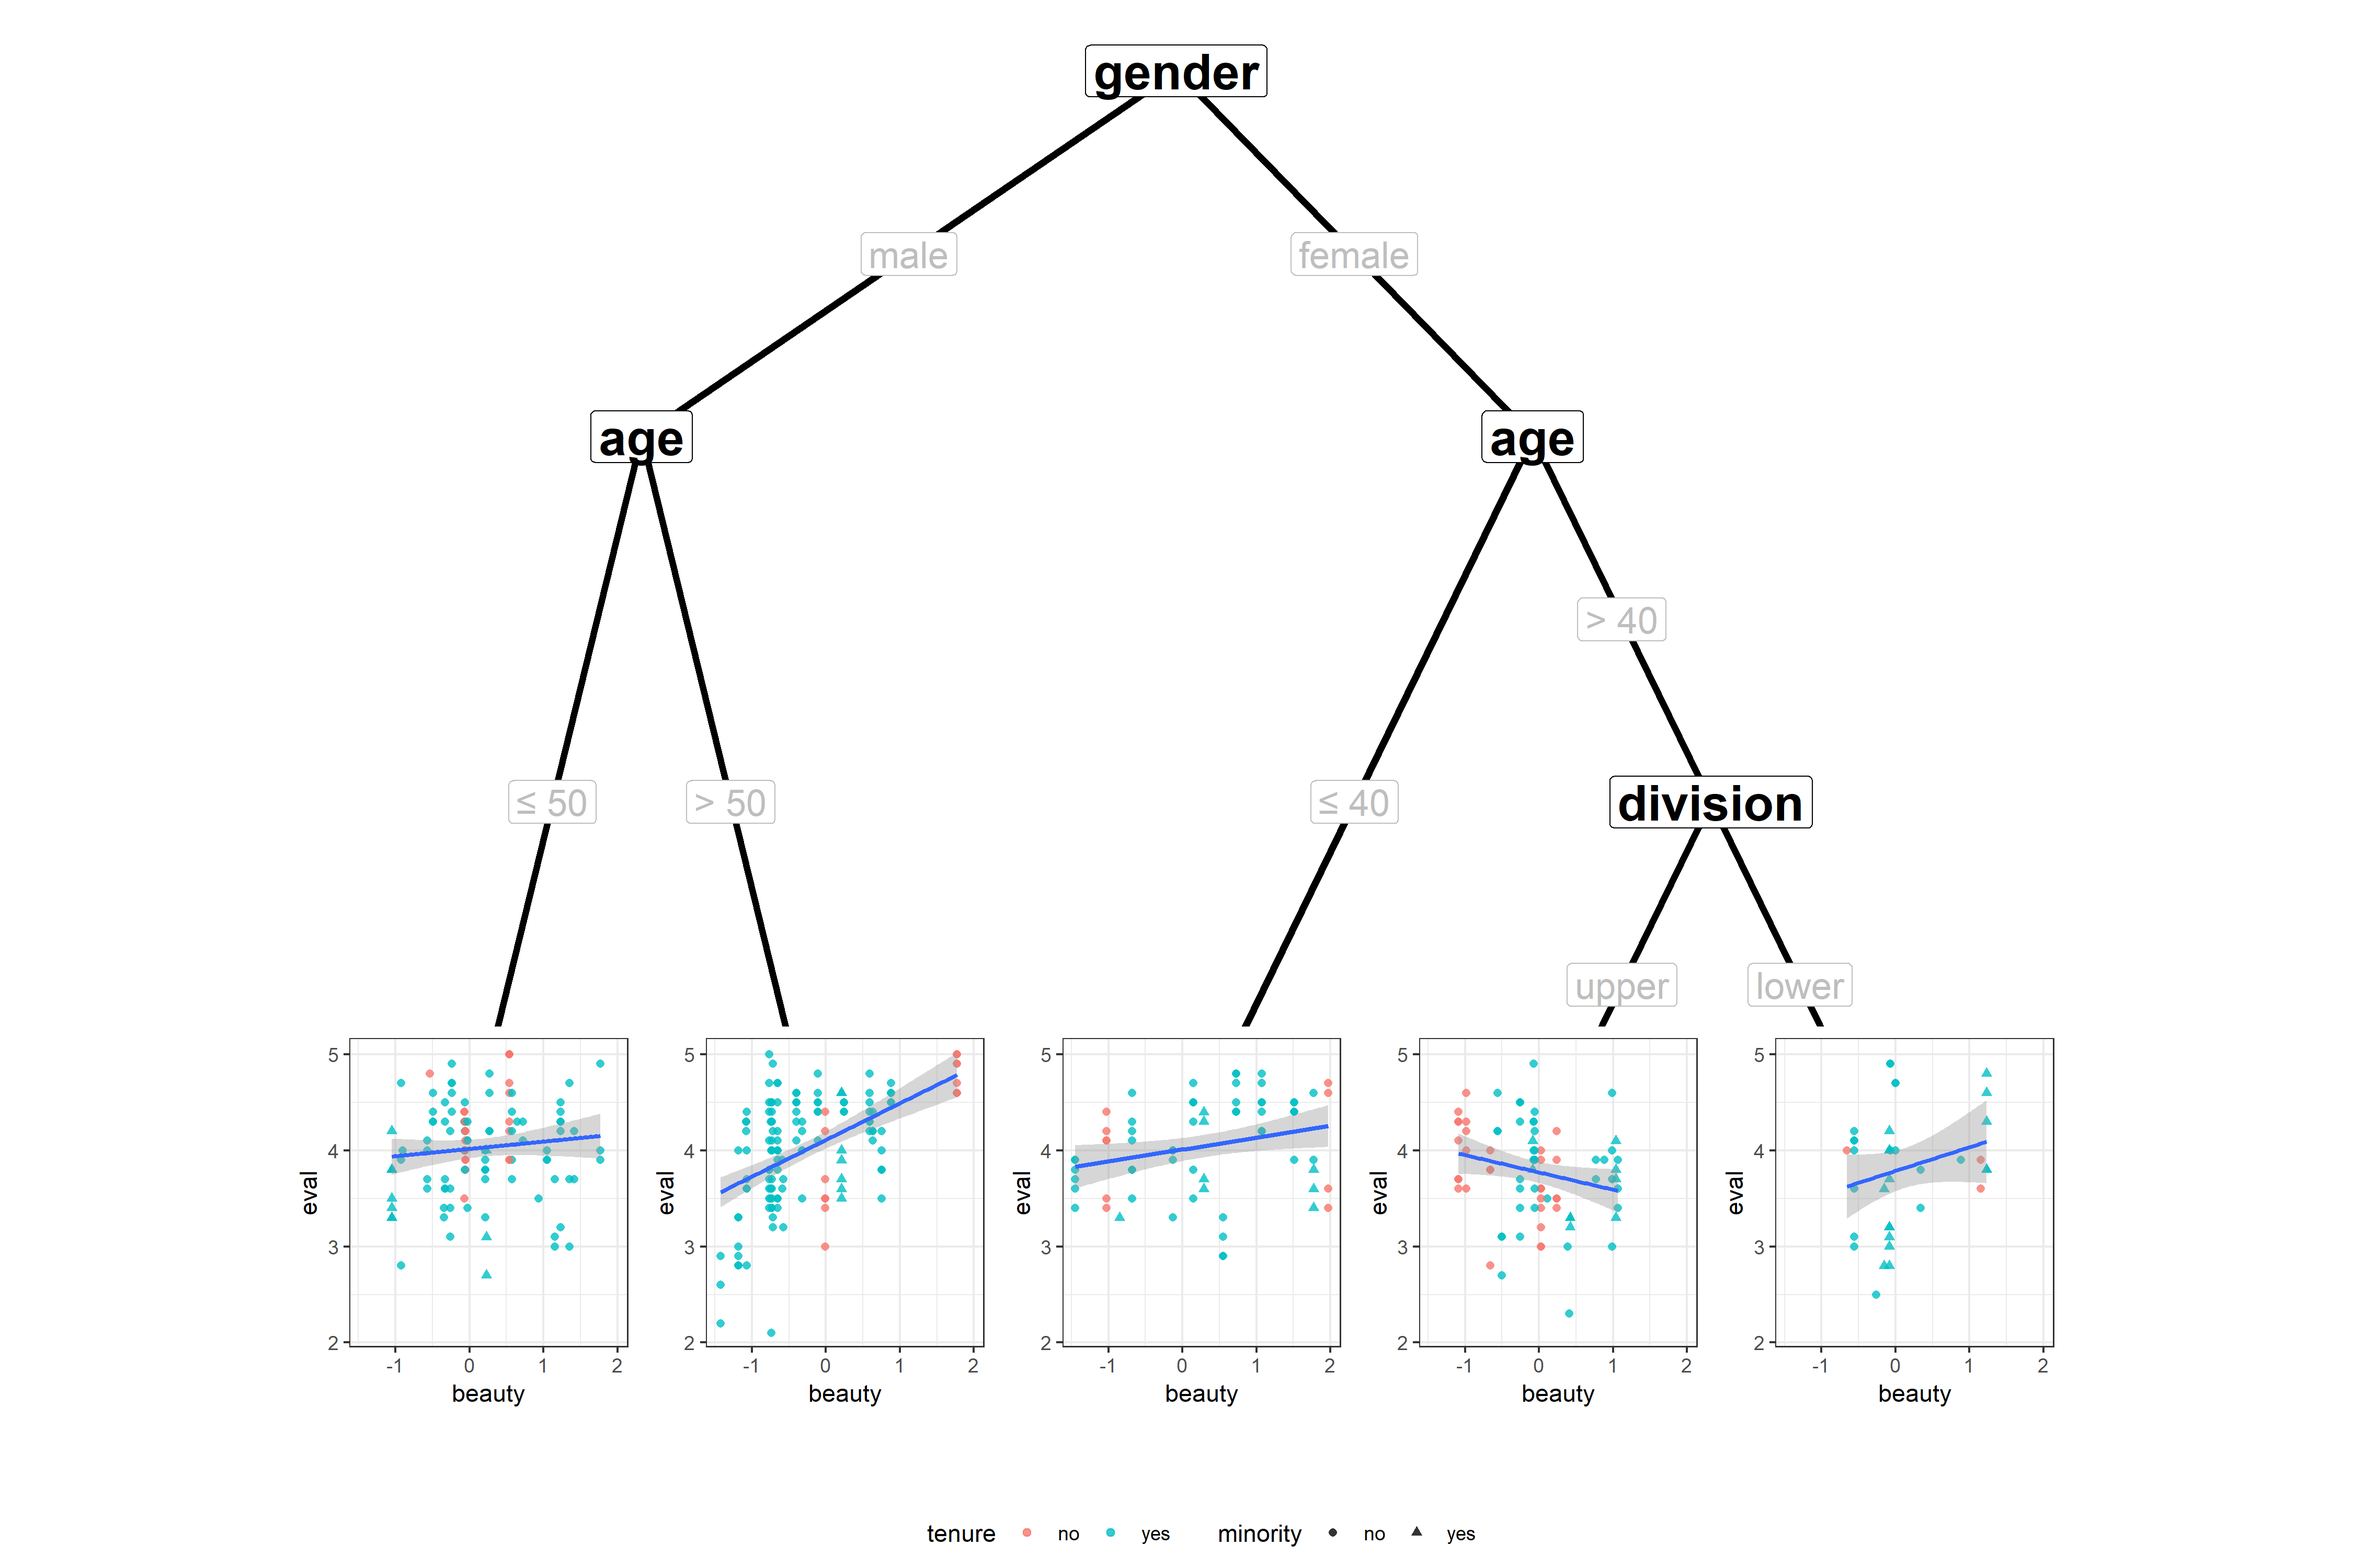
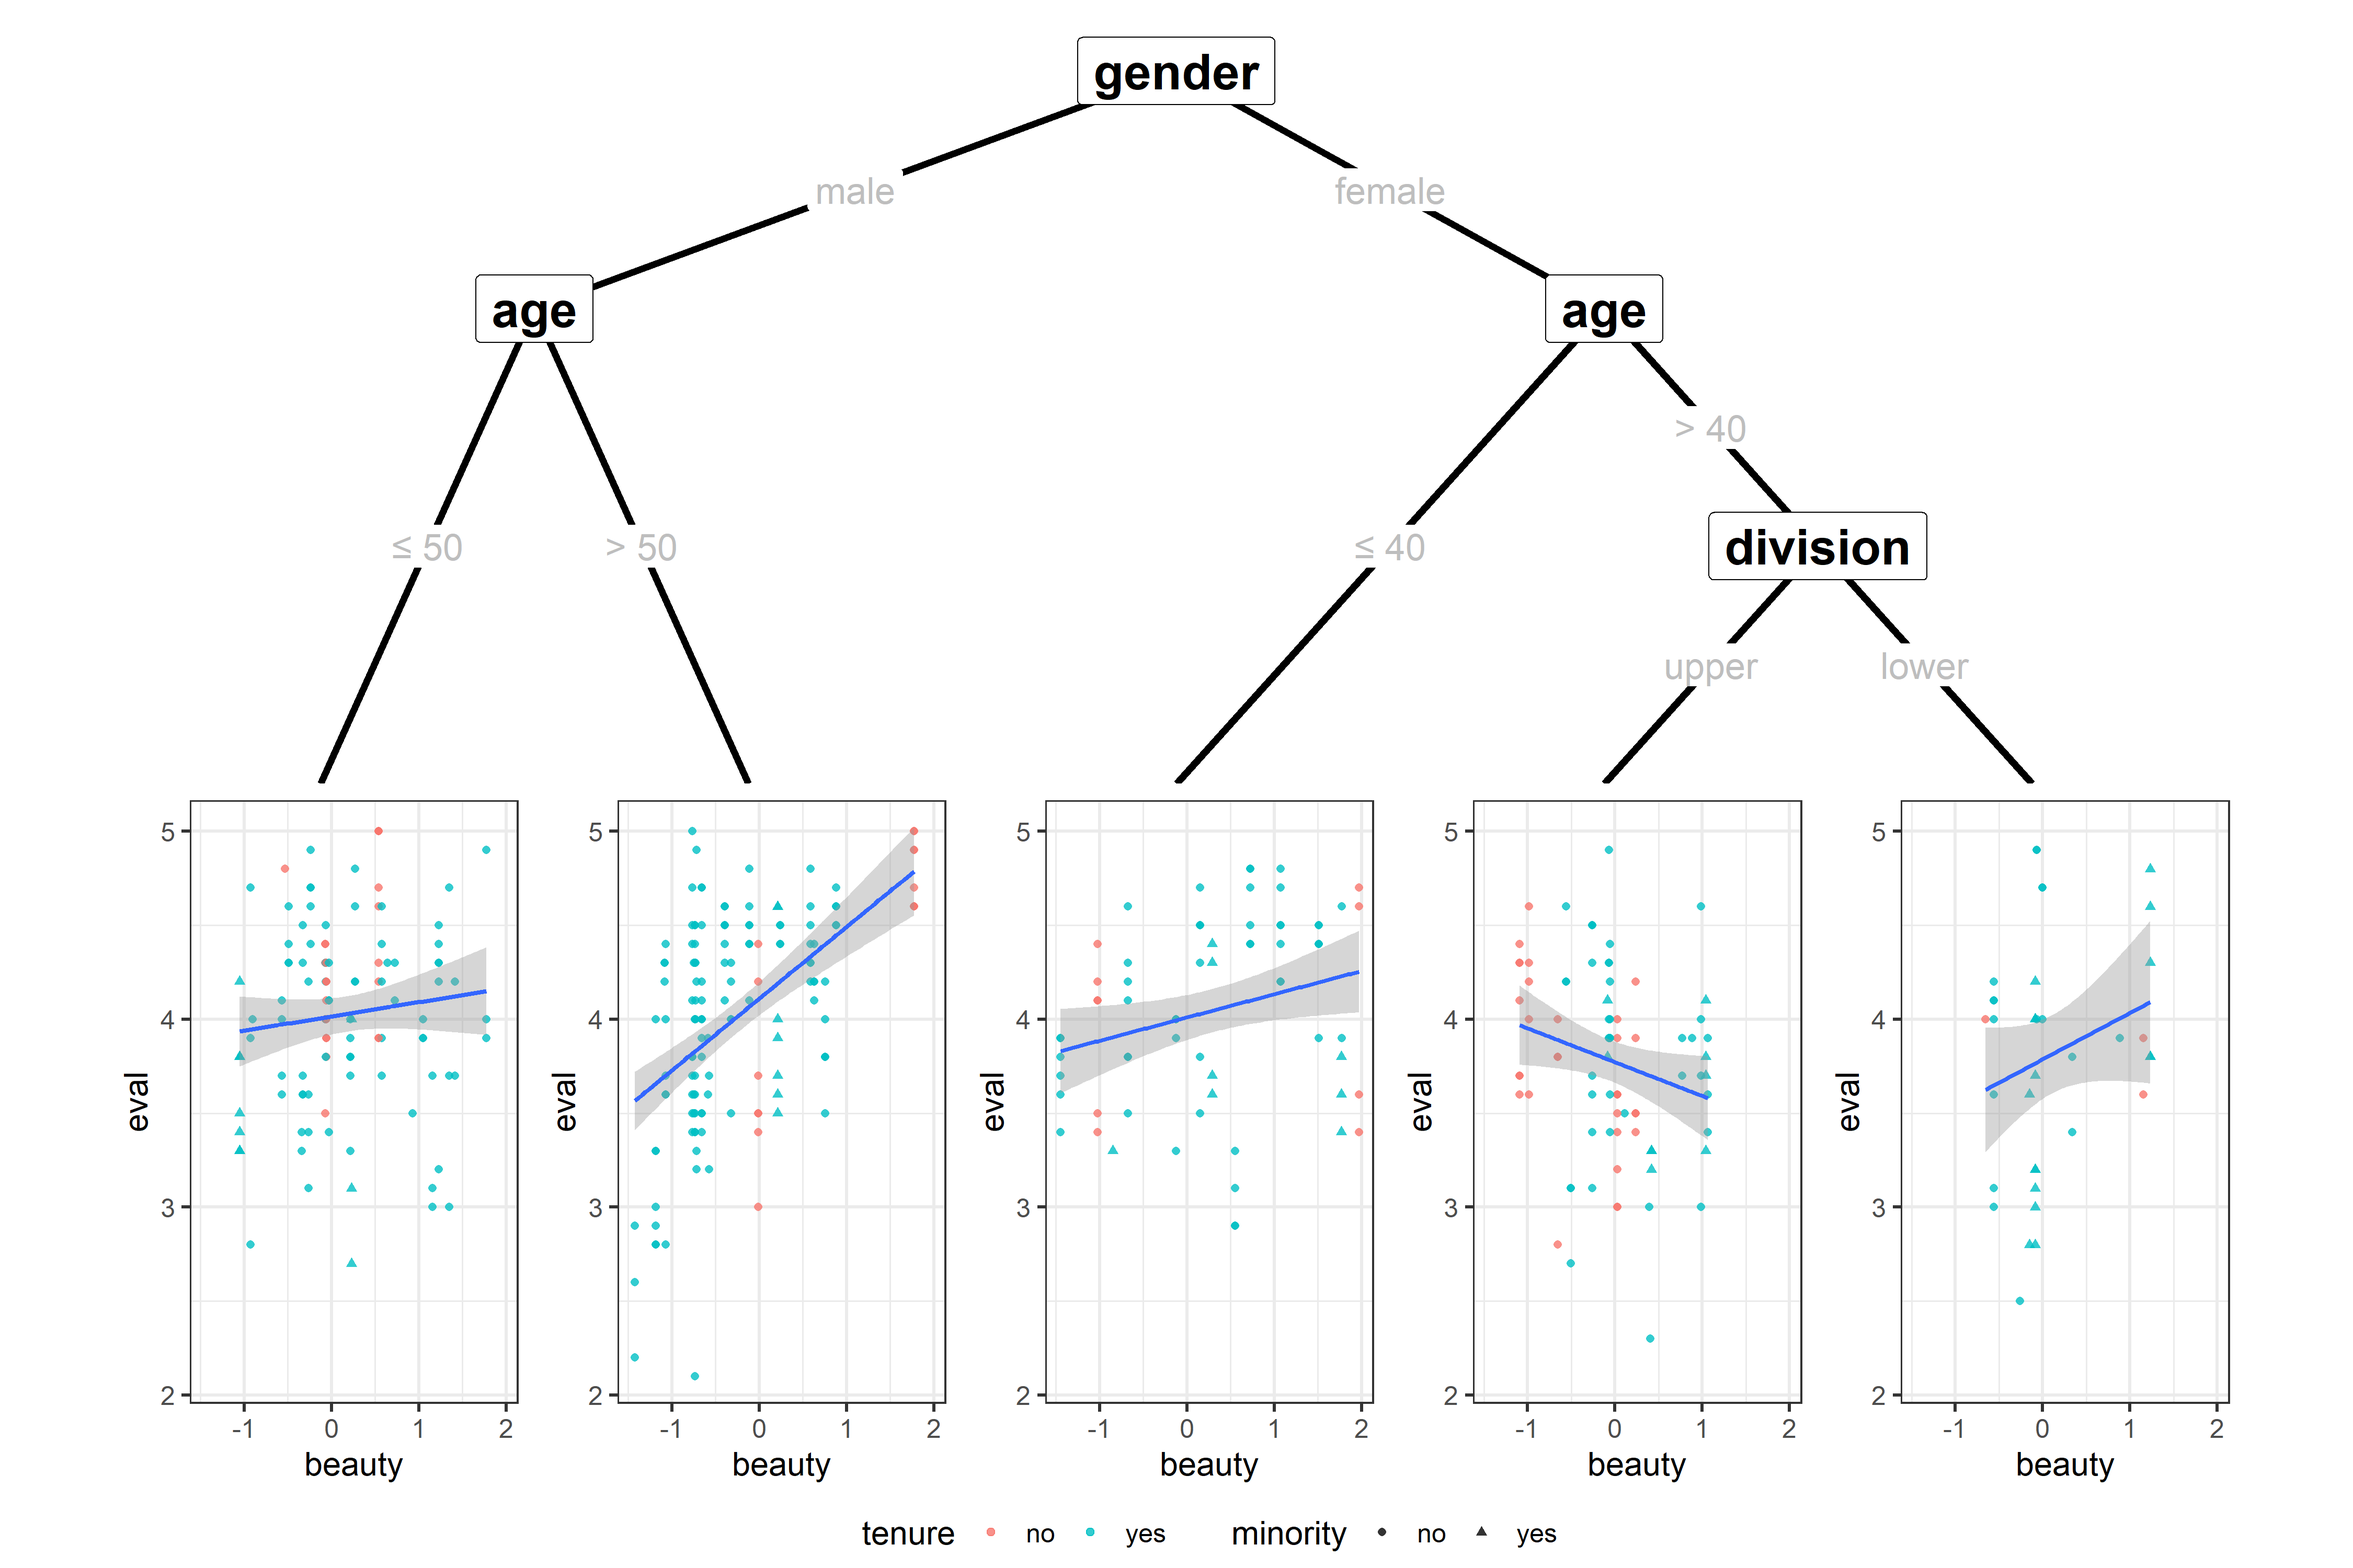
reworked geom_nodeplot's viewport mechanics

diff --git a/README.md b/README.md
@@ -1,5 +1,3 @@
-[![Travis build status](https://travis-ci.org/mmostly-harmless/ggparty.svg?branch=master)](https://travis-ci.org/mmostly-harmless/ggparty)
-
 ggparty
 ================
 
@@ -25,7 +23,7 @@ tr <- subset(TeachingRatings, credits == "more")
 tr_tree <- lmtree(eval ~ beauty | minority + age + gender + division + native +
                     tenure, data = tr, weights = students, caseweights = FALSE)
 
-ggparty(tr_tree) +
+ggparty(tr_tree, terminal_space = 0.5) +
   geom_edge(size = 1.5) +
   geom_node_splitvar(fontface = "bold", size = 8) +
   geom_edge_label(colour = "grey", size = 6) +
@@ -36,15 +34,11 @@ ggparty(tr_tree) +
                                          alpha = 0.8),
                               geom_smooth(aes(x = beauty, y = eval),
                                           method = "lm"),
-                              theme_bw()),
+                              theme_bw(base_size = 15)),
                 scales = "fixed",
-                id = "terminal",
-                width = 0.15,
-                height = 0.25,
-                y_nudge = - 0.05) + 
-  ylim(-0.3, 1)
+                id = "terminal")
 ```
 
 ![](README_files/figure-markdown_github/unnamed-chunk-2-1.png)
 
-
+[![Travis build status](https://travis-ci.org/mmostly-harmless/ggparty.svg?branch=master)](https://travis-ci.org/mmostly-harmless/ggparty)
